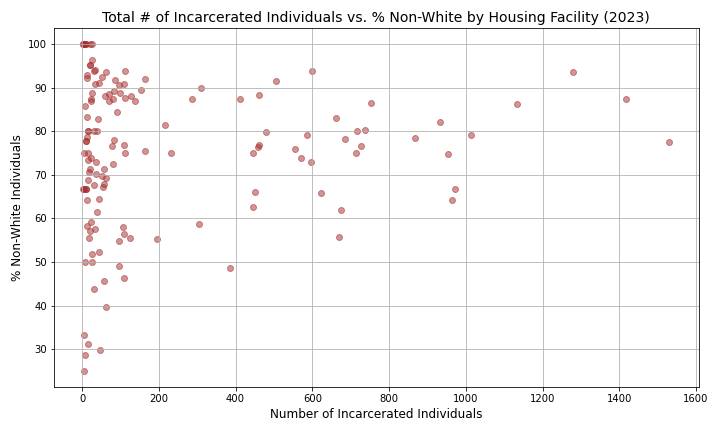
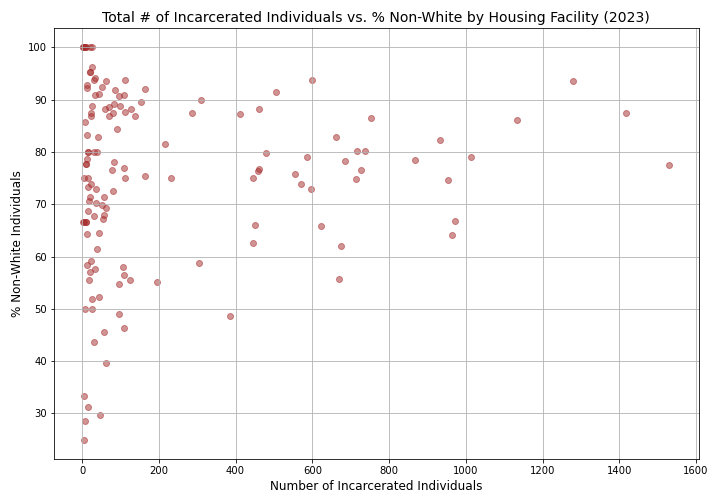
4.28

diff --git a/NONWHITE SCATTERPLOTS/nonwhite_scatters.py b/NONWHITE SCATTERPLOTS/nonwhite_scatters.py
@@ -23,7 +23,7 @@ facility_counts = pd.merge(facility_counts, nonwhite_counts, on='Housing Facilit
 facility_counts['Nonwhite_Percentage'] = (facility_counts['Nonwhite_Count'] / facility_counts['Total_Count']) * 100
 
 #Creating a scatter plot between the percentage of non-white incarcerated individuals and the total number of incarcerated individuals in the facilities.
-plt.figure(figsize=(10, 6))
+plt.figure(figsize=(10, 7))
 plt.scatter(facility_counts['Total_Count'], facility_counts['Nonwhite_Percentage'], color='brown', alpha=0.5)  # Axes switched
 plt.xlabel('Number of Incarcerated Individuals', fontsize=12)  
 plt.ylabel('% Non-White Individuals', fontsize=12)  
@@ -36,7 +36,7 @@ plt.savefig('total_vs_nonwhite_by_facility.png')
 plt.show()
 
 #Creating a scatter plot between the percentage of non-white incarcerated individuals and the total number of incarcerated individuals in the facilities.
-plt.figure(figsize=(10, 6))
+plt.figure(figsize=(10, 7))
 plt.scatter(facility_counts['Nonwhite_Percentage'], facility_counts['Total_Count'], color='brown', alpha=0.5)  # Axes switched
 plt.ylabel('Number of Incarcerated Individuals', fontsize=12)  
 plt.xlabel('% Non-White Individuals', fontsize=12)  

diff --git a/DEMOGRAPHICS/demographics.py b/DEMOGRAPHICS/demographics.py
@@ -42,7 +42,7 @@ gender_race_ratios.to_csv('ratios.csv', header=True, index=False)
 
 # Plotting pie and bar charts for gender and race distributions.
 # Gender distribution pie chart
-plt.figure(figsize=(7, 7))
+plt.figure(figsize=(10, 7))
 gender_counts = incarcerated_data_2023['Gender'].value_counts()
 plt.pie(gender_counts, labels=gender_counts.index, autopct='%1.1f%%', startangle=140, colors=['skyblue', 'lightcoral'])
 plt.title('Gender Distribution of Incarcerated Individuals in New York State (2023)')
@@ -70,7 +70,7 @@ non_white_percentage = non_white_count / race_counts.sum() * 100
 white_percentage = white_count / race_counts.sum() * 100
 
 # Plotting pie chart for race distribution
-plt.figure(figsize=(7, 7))
+plt.figure(figsize=(10, 7))
 plt.pie([non_white_percentage, white_percentage], labels=['Non-White', 'White'], autopct='%1.1f%%', startangle=140, colors=['lightcoral', 'skyblue'])
 plt.title('Race Distribution of Incarcerated Individuals in New York State (2023)')
 plt.tight_layout()
